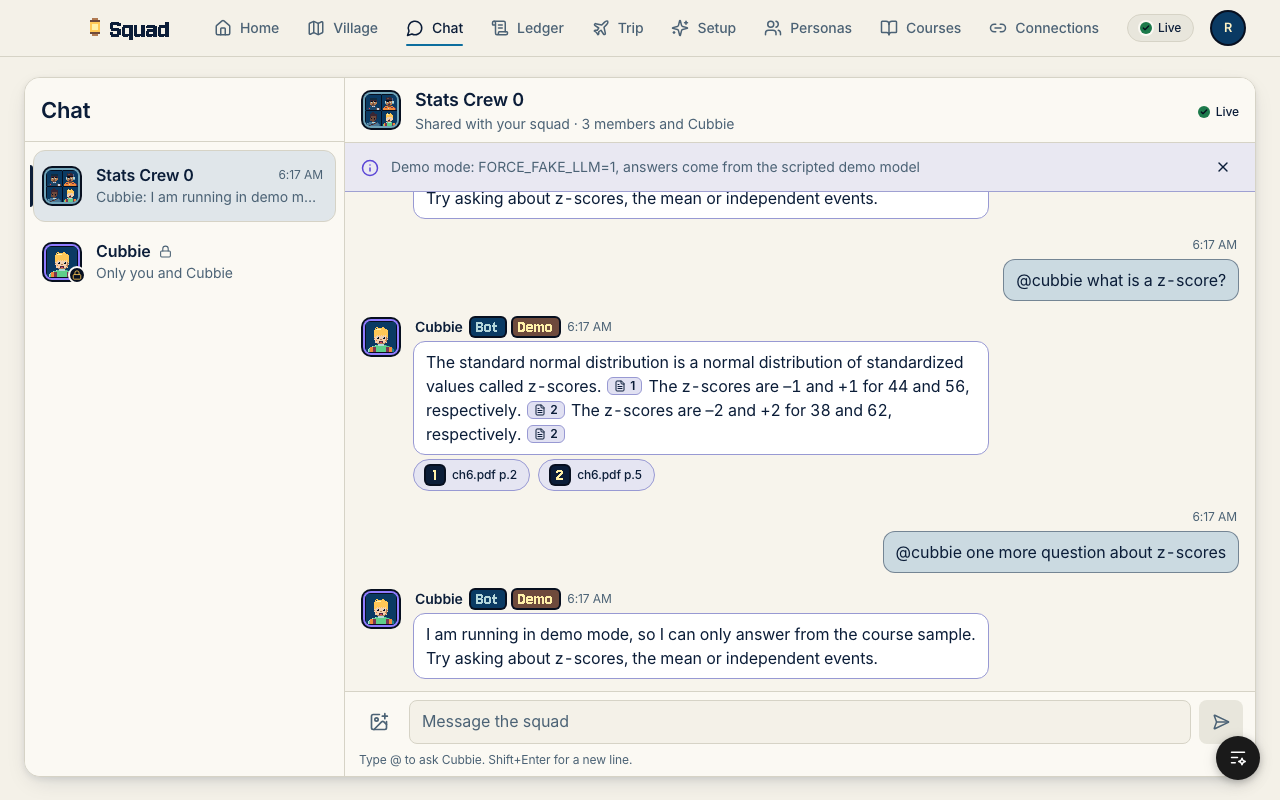
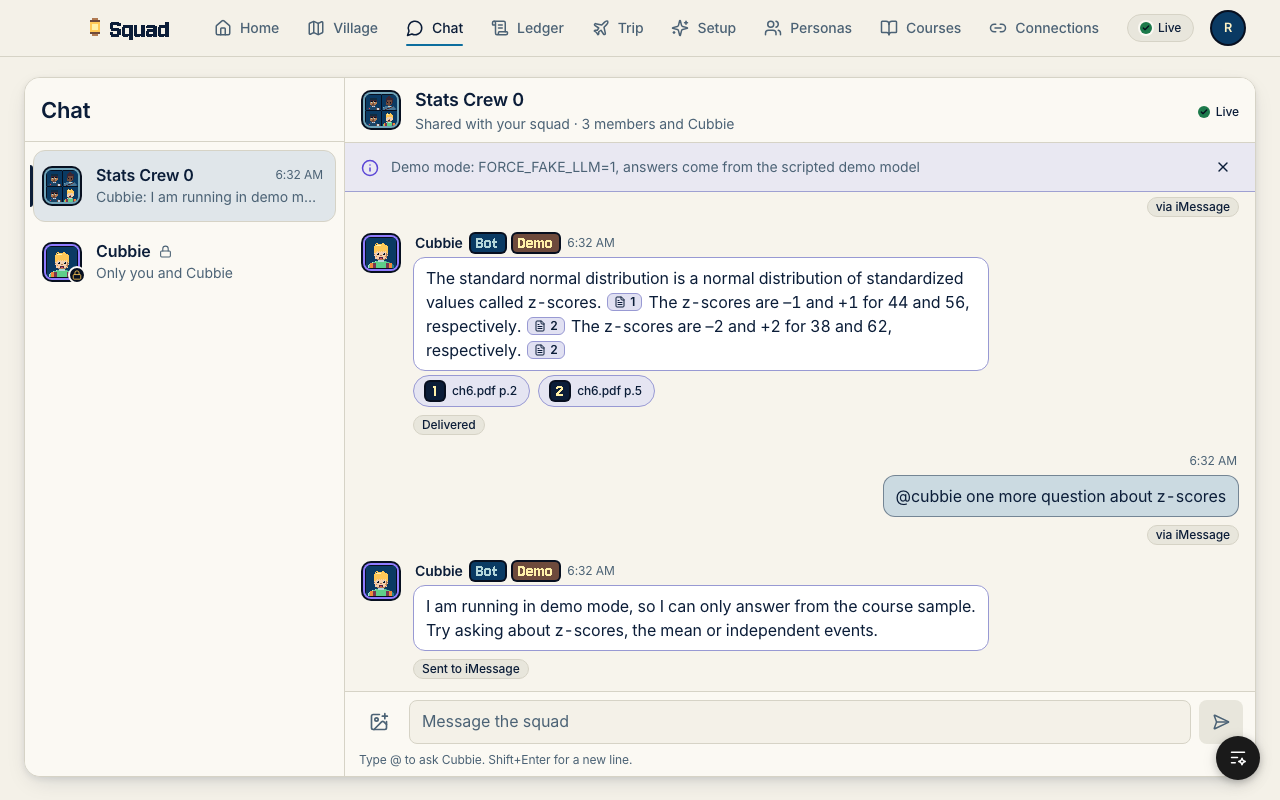
gate: V4 stale-data branch uses a refused refresh on sync; report 22/22 fixture steps pass

diff --git a/e2e/gate/steps/variants.ts b/e2e/gate/steps/variants.ts
@@ -190,14 +190,13 @@ export const V4: StepDef<GateCtx> = {
     // D. a refresh the provider refuses without saying "revoked": expired, data KEPT, sync stopped, stale, reconnect prompt
     await disconnectAll(rhea);
     await resetUpstreams();
-    await connectGoogle(rhea, { shortLived: true });
+    await connectGoogle(rhea);
     await syncAll(rhea);
     const kept = (await items(rhea)).filter((s) => s.provider === 'google').length;
     a.ok('Google data was imported before the refusal', kept > 0);
-    await google.failRefresh(99);
-    const g4 = (await listConnections(rhea)).connections.find(
-      (x) => x.provider === 'google' && x.status !== 'revoked',
-    );
+    await expireUpstream({ refreshFails: true }); // the access token dies at Google and the refresh answers 500
+    await syncAll(rhea);
+    const g4 = await connectionStatus(rhea, 'google');
     a.eq('a refused refresh (not invalid_grant) ends expired, never live', g4?.state, 'expired');
     a.ok('and asks for a reconnect', g4?.needsReconnect === true);
     a.eq(

diff --git a/docs/qa/RELEASE-GATE-REPORT.md b/docs/qa/RELEASE-GATE-REPORT.md
@@ -1,23 +1,23 @@
 # Release gate report
 
-Generated 2026-10-25T13:18:16.915Z by `pnpm gate` (tree feature/release-gate@a94bcfb2, origin/main@1bef7af7).
+Generated 2026-10-25T13:33:15.594Z by `pnpm gate` (tree fix/gate-findings@d86d6a86, origin/main@29bb0842).
 Mode: LLM fake model, labelled **Demo**; real integrations not requested.
 
-## Verdict: RED (a BUILT step failed)
+## Verdict: FIXTURE-GREEN / REAL-BLOCKED
 
-Fixture steps: 17 PASS, 5 FAIL, 0 NOT_BUILT, 0 not run, of 22. A NOT_BUILT step is never a PASS: its owner branch is not on origin/main.
+Fixture steps: 22 PASS, 0 FAIL, 0 NOT_BUILT, 0 not run, of 22. A NOT_BUILT step is never a PASS: its owner branch is not on origin/main.
 
 ## Journey (one world, one chain)
 
 | Step | What | Fixture | Real | Evidence |
 |---|---|---|---|---|
 | S1 | Connect Canvas and Google Workspace with minimal permissions | PASS (fixture (real hub connectors against HTTP fakes; no real Google or Canvas account)) | BLOCKED(no_google_client, [runbook](RELEASE-GATE.md#google-oauth-client-and-consent-screen)) | `docs/design/shots/gate/s1-01-connections.png` |
-| S2 | Ingest and normalize permitted context | FAIL: no raw squad or student ids on the Connections page after sharing | BLOCKED(no_google_client, [runbook](RELEASE-GATE.md#google-oauth-client-and-consent-screen)) | `docs/design/shots/gate/s2-01-connections-shared.png` |
+| S2 | Ingest and normalize permitted context | PASS (fixture (real hub connectors against HTTP fakes; no real Google or Canvas account)) | BLOCKED(no_google_client, [runbook](RELEASE-GATE.md#google-oauth-client-and-consent-screen)) | `docs/design/shots/gate/s2-01-connections-shared.png` |
 | S3 | Agents retrieve permitted context with verified citations | PASS (fixture (retrieval and source viewer asserted at the API; chat answers use the demo model unless LIVE=1)) | SKIPPED(real_not_requested) | `docs/design/shots/gate/s3-01-citation-excerpt.png`<br>`docs/design/shots/gate/s3-02-cubbie-answers.png` |
 | S4 | Group iMessage tagging @cubbie / @cubbi | PASS (fixture) | BLOCKED(apple_unverified, [runbook](RELEASE-GATE.md#apple-behaviour-and-permissions)) |  |
 | S5 | Route to the correct live agent with the same grounded context | PASS (fixture) | BLOCKED(llm_credits, [runbook](RELEASE-GATE.md#gemini-credits-live-and-elevenlabs-plan)) |  |
 | S6 | Reply delivered into the same iMessage group | PASS (fixture) | BLOCKED(apple_unverified, [runbook](RELEASE-GATE.md#apple-behaviour-and-permissions)) | `docs/design/shots/gate/s6-01-delivery-state.png` |
-| S7 | Web chat shows the complete ordered conversation (and mirrors back) | FAIL: iMessage-origin message carries a "via iMessage" tag | SKIPPED(real_not_requested) | `docs/design/shots/gate/s7-01-web-mirror-rhea.png`<br>`docs/design/shots/gate/s7-02-web-mirror-ben.png` |
+| S7 | Web chat shows the complete ordered conversation (and mirrors back) | PASS (fixture) | SKIPPED(real_not_requested) | `docs/design/shots/gate/s7-01-web-mirror-rhea.png`<br>`docs/design/shots/gate/s7-02-web-mirror-ben.png` |
 | S8 | Conversation continues into a collaborative trip plan | PASS (fixture (demo labelled)) | SKIPPED(real_not_requested) | `docs/design/shots/gate/s8-01-trip-voting.png`<br>`docs/design/shots/gate/s8-02-trip-cutscene.png`<br>`docs/design/shots/gate/s8-03-trip-agent-offline.png` |
 | S9 | ... and a shared study plan | PASS (fixture (demo labelled)) | SKIPPED(real_not_requested) | `docs/design/shots/gate/s9-01-plan-proposed.png` |
 | S10 | Decisions, updates, failures and agent activity stay synchronized in web and iMessage | PASS (fixture (demo labelled)) | SKIPPED(real_not_requested) |  |
@@ -26,10 +26,10 @@ Fixture steps: 17 PASS, 5 FAIL, 0 NOT_BUILT, 0 not run, of 22. A NOT_BUILT step 
 
 | Variant | What | Fixture | Real | Evidence |
 |---|---|---|---|---|
-| V1 | Fresh setup: connecting is optional and asking before connecting is honest | FAIL: and says nothing is connected and offers a way to connect | SKIPPED(real_not_requested) | `docs/design/shots/gate/v1-01-fresh-connections.png` |
+| V1 | Fresh setup: connecting is optional and asking before connecting is honest | PASS (fixture) | SKIPPED(real_not_requested) | `docs/design/shots/gate/v1-01-fresh-connections.png` |
 | V2 | Reconnect: purge on disconnect, same ids on reconnect, chat untouched | PASS (fixture) | SKIPPED(real_not_requested) |  |
-| V3 | Revoked auth: needs reconnect, data marked not deleted, the other source keeps working | FAIL: the label says to reconnect in words | SKIPPED(real_not_requested) |  |
-| V4 | Expired access token: transparent refresh; refresh failure falls to V3 | FAIL: a refused refresh ends needing reconnect | SKIPPED(real_not_requested) |  |
+| V3 | Revoked auth: state revoked, imported data purged (deliberate, privacy first), honest reconnect message, the other source keeps working | PASS (fixture) | SKIPPED(real_not_requested) |  |
+| V4 | Expired access token: one refresh and retry; a refused refresh is revoked (provider says so) or expired with data kept, never live | PASS (fixture) | SKIPPED(real_not_requested) |  |
 | V5 | Canvas upstream gone: degraded with the last good items, never a silent empty | PASS (fixture) | SKIPPED(real_not_requested) |  |
 | V6 | Duplicate events | PASS (fixture) | SKIPPED(real_not_requested) |  |
 | V7 | Offline gap, backfill and hub restart | PASS (fixture) | SKIPPED(real_not_requested) |  |
@@ -38,31 +38,6 @@ Fixture steps: 17 PASS, 5 FAIL, 0 NOT_BUILT, 0 not run, of 22. A NOT_BUILT step 
 | V10 | Multiple group threads | PASS (fixture) | SKIPPED(real_not_requested) |  |
 | V11 | Degraded model is labelled Demo everywhere | PASS (fixture/degraded) | BLOCKED(llm_credits, [runbook](RELEASE-GATE.md#gemini-credits-live-and-elevenlabs-plan)) |  |
 | V12 | Wrong person tags @cubbie | PASS (fixture) | BLOCKED(needs_second_person, [runbook](RELEASE-GATE.md#real-multi-person-imessage-group)) |  |
-
-## Failures
-
-### S2 (fixture) Ingest and normalize permitted context
-
-- no raw squad or student ids on the Connections page after sharing: found: squad id
-
-### S7 (fixture) Web chat shows the complete ordered conversation (and mirrors back)
-
-- iMessage-origin message carries a "via iMessage" tag
-
-### V1 (fixture) Fresh setup: connecting is optional and asking before connecting is honest
-
-- and says nothing is connected and offers a way to connect: reply does not mention connecting
-
-### V3 (fixture) Revoked auth: needs reconnect, data marked not deleted, the other source keeps working
-
-- the label says to reconnect in words
-- Google-derived items are kept (stale), not deleted
-
-### V4 (fixture) Expired access token: transparent refresh; refresh failure falls to V3
-
-- a refused refresh ends needing reconnect: state live
-- a 401 on sync triggers one refresh and a retry (no user-visible failure): sync 200, state revoked, refresh calls 0
-
 
 ## External blockers (code cannot fix these)
 
@@ -86,7 +61,7 @@ Fixture steps: 17 PASS, 5 FAIL, 0 NOT_BUILT, 0 not run, of 22. A NOT_BUILT step 
 - S9 (fixture): mastery hidden for squads under 3 members is not exercised: the world squad has 3 members
 - V10 (fixture): 1:1 squad disambiguation ("Which squad?") is not part of feature/imessage-sync today (docs/imessage.md); a DM stays private to Cubbie.
 - V11 (fixture): iMessage text has no literal "Demo" marker (only the web label); recorded, not asserted
-- V3 (fixture): after revoke: state=revoked label=Disconnected: imported data deleted status=revoked degraded=false note=Disconnected. All imported data was deleted.
+- V3 (fixture): after revoke: state=revoked label=Google access was revoked. Imported data was removed. Reconnect to import again. status=revoked degraded=false
 - V9 (fixture): same option, different field with a stale baseRev answered 409 (docs say merge, code checks per option)
 - V9 (fixture): fewer than two members pending: the simultaneous-accept check was skipped
 

diff --git a/docs/qa/RELEASE-GATE.md b/docs/qa/RELEASE-GATE.md
@@ -72,22 +72,22 @@ its own ports is busy.
 exactly those. It never kills by port or by name pattern. A hub restart (variant V7) and an agent going offline (S8, V9)
 stop and start exactly the recorded PID.
 
-### Findings the gate currently reports (all features landed except the council integration)
+### Findings the gate reported and how they were resolved
 
-These are real differences between the plan and what is on main, not harness noise. Each stays a FAIL until the owner
-fixes it or the plan changes:
+The first full run (17 of 22 fixture steps) found these real differences between the plan and what was on main. All five
+are fixed on `fix/gate-findings`; the rows stay as the record of what the gate caught and the decision taken:
 
-| Step | Finding | Owner |
+| Step | Finding | Resolution |
 |---|---|---|
-| S2 | the Connections page shows raw squad ids in "Shared with" | nook-parity web |
-| S7 | an iMessage-origin message has no "via iMessage" tag and no delivery label in the web chat: `SyncBadge` exists but is not mounted in the chat bubble | imessage-sync web |
-| V1 | asking `@cubbie` before anything is connected answers "Not in the materials. Ask the TA." instead of saying nothing is connected and offering the link | context / chat |
-| V3 | a grant revoked at Google makes the hub delete all imported data ("Disconnected"); the plan wanted stale-but-kept items and a reconnect prompt | nook-parity |
-| V4 | a 401 on sync with a token that died early at Google ends the connection `revoked` (data purged) instead of one refresh and a retry; a refused refresh after a short-lived token stays `live` | nook-parity |
+| S2 | the Connections page showed raw squad ids in "Shared with" | names come from the roster (`GET /v1/squads`), never ids; the no-raw-ids scan covers the page |
+| S7 | an iMessage-origin message had no "via iMessage" tag and no delivery label in the web chat | `SyncBadge` is mounted in the bubble; the chat client consumes `chat.sync` and updates the state live; failed sends offer Retry (`POST /v1/imessage/messages/:id/retry`) |
+| V1 | asking `@cubbie` before anything is connected answered "Not in the materials. Ask the TA." | course/Canvas/Drive questions with no readable source answer "Nothing is connected yet: connect Canvas or Google in Connections" with a link; the exact refusal stays for questions outside the materials when sources exist |
+| V3 | a grant revoked at Google makes the hub delete all imported data | kept on purpose (privacy first, a documented difference from Nook): state `revoked`, "Google access was revoked. Imported data was removed. Reconnect to import again." and a Reconnect button. The gate and the plan now assert this |
+| V4 | a 401 on sync ended the connection `revoked`; a refused refresh after a short-lived token stayed `live` | a 401 refreshes once and retries; `invalid_grant` is `revoked` (V3), any other refusal is `expired` with the data kept, sync stopped, retrieval flagged stale and a Reconnect prompt; the hub no longer stretches a short-lived token to an hour |
 
-Notes on behaviour the harness adapted to: `@planner` and `@studyplan` do not start a trip or a study plan (the plan and
-trip are started by `@cubbie plan a trip to <place> ...` and `@cubbie study plan ...`); persona aliases answer as the
-persona only. The demo model cannot ground a content answer, so citation assertions on persona answers run with
+Notes on behaviour the harness adapted to: `@planner plan a trip to <place>` / `@planner ... trip ...` starts the trip flow and
+`@planner study plan ...` starts the study-plan flow (the same flows `@cubbie` starts); other `@planner` messages and the
+other persona aliases answer as the persona only. The demo model cannot ground a content answer, so citation assertions on persona answers run with
 `LIVE=1`; the fixture run asserts citations at the retrieval and source-viewer API instead. The live council
 (`feature/council-integration`) is not on main: when it lands, S5 gains its assertions (probe `P.council`).
 
